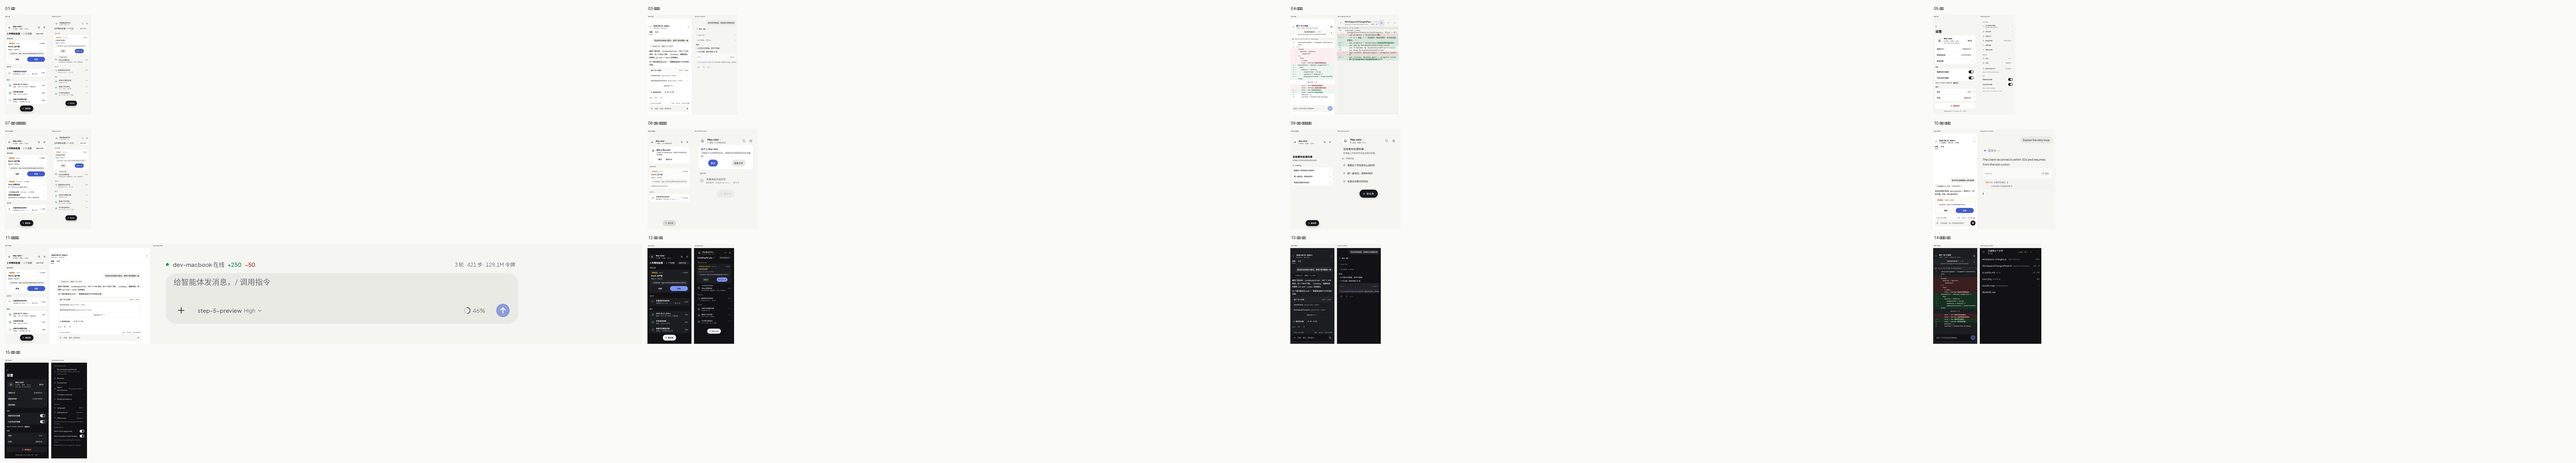
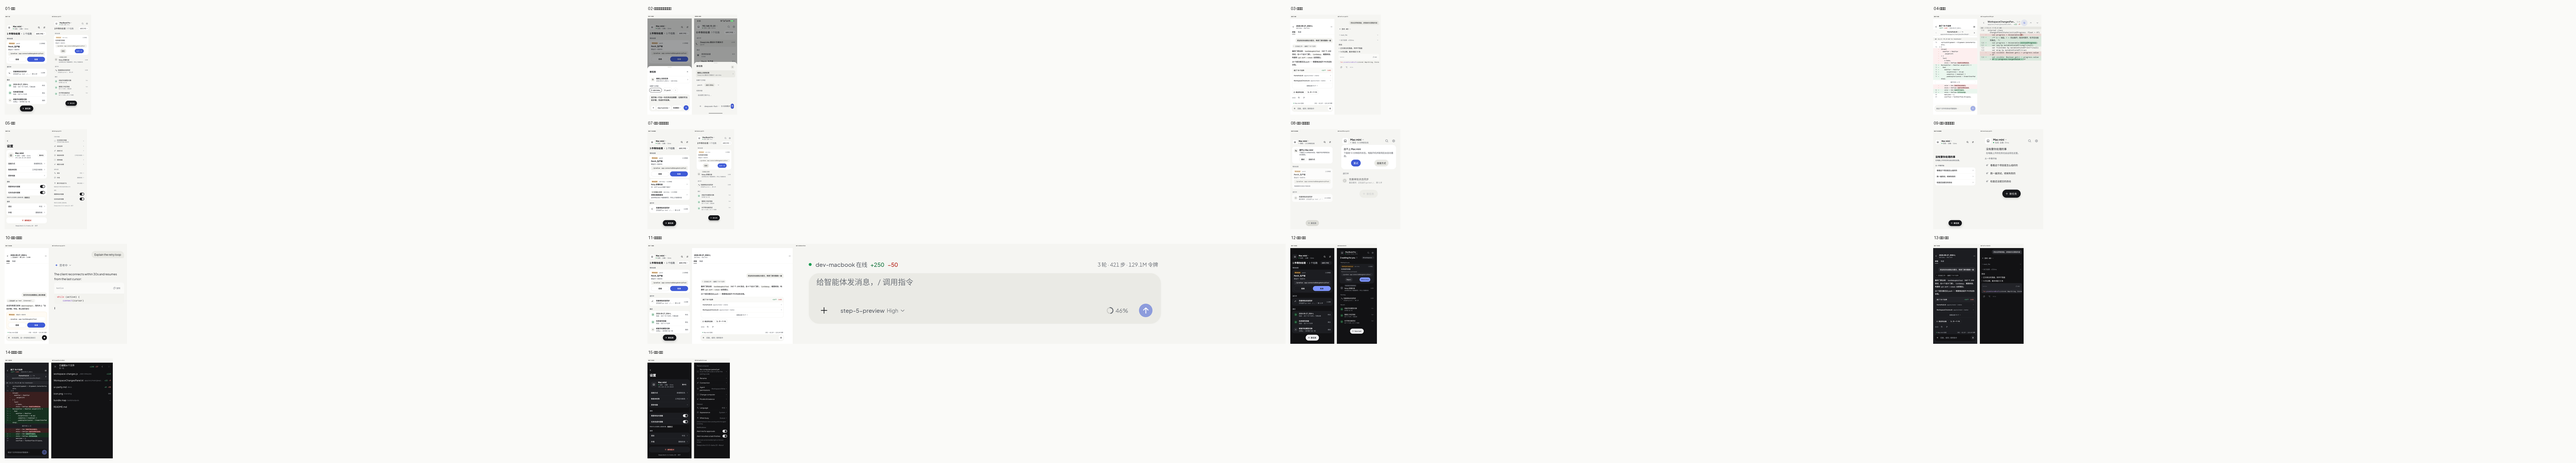
docs: 新任务面板改用手机实拍做对照，总览扩到 14 组（阶段 10 收尾）
02 新任务面板在截图机制里覆盖不到（输入卡是真实 EditText），所以在并排对照里一直缺位。这一轮把
**手机实拍**（修好第二个座之后的版本）与稿 02 拼成对照图 —— 比截图墙更有力，因为它是真机渲染。
总览图随之从 13 组扩到 14 组。

顺带说明：这一轮先探了「用插件测试里的桩 host 让模拟器配对」这条路——test/mobile-models.test.mjs
里的 createServer 只是插件内部的假后端，不足以支撑 App 的配对与完整 API，成本过高，没有继续。
真机三项（04 看改动、06 通知动作、11 平板整页）仍卡在「需要一台与 host 同网且已配对的设备」。

diff --git a/apps/android/docs/redesign-index.md b/apps/android/docs/redesign-index.md
@@ -1,6 +1,6 @@
 # 重设计交付索引（对照设计稿 15 张）
 
-一次翻完：总览图 [`redesign-side-by-side/00-总览.png`](redesign-side-by-side/00-总览.png)（13 组并排缩略）。
+一次翻完：总览图 [`redesign-side-by-side/00-总览.png`](redesign-side-by-side/00-总览.png)（**14 组**并排缩略，其中 02 用的是手机实拍）。
 逐组大图在 `redesign-side-by-side/`，每张左边是设计稿、右边是我们的实现。逐条走查照
 [真机验收对照清单](redesign-acceptance.md) 执行。
 
@@ -9,7 +9,7 @@
 | 稿 | 屏 | 结论 | 验证来源 | 仍存差异（有意/待定） |
 |---|---|---|---|---|
 | 01 | 首页 | ✅ 结构一致：图标块 + 别名 + `● 在线 · 云端 · N ms`、概况行、三段分区、墨色新任务胶囊 | 手机真机（真实会话与进行中任务） | 右上第二个图标：稿是筛选、我们是设置齿轮（功能都在）；稿的「批准」按钮我们沿用既有「允许一次」 |
-| 02 | 新任务面板 | ✅ 「继续上次的任务 / 工作区胶囊 / 任务内容 / + · 模型 · 标准模式 · 发送」 | 手机真机 | 截图机制覆盖不到（输入卡是真实 `EditText`），只能真机；模型座不带推理档（与稿一致） |
+| 02 | 新任务面板 | ✅ 「继续上次的任务 / 工作区胶囊 / 任务内容 / + · 模型 · 标准模式 · 发送」 | **手机实拍**（`02-新任务面板_对照（实拍）.png`）——比截图墙更有力 | 截图机制覆盖不到（输入卡是真实 `EditText`）；模型座不带推理档（与稿一致） |
 | 03 | 对话页 | ✅ 与整页墙同构：气泡 → 思考 → 过程折叠行 → 正文 → 代码块（换行）→ 轮末行 → 改动卡 → 底部区 | 整页墙 + 手机真机 | 「下一步建议胶囊」按方案 D3 v1 不做；输入条我们功能更多（模型/模式/上下文/发送） |
 | 04 | 看改动 | 🔶 实现齐全（文件条 `1/N`、只显新行号、未改动段折叠、悬挂缩进、底部提问条） | 截图墙（浅/深/宽） | **真机未验**：需设备与 host 同网且会话有改动 |
 | 05 | 设置 | ✅ 八个电脑卡项（名称/等宽地址/修改名称/连接方式/智能体权限/更换电脑/模型与余额/在线延迟）+ 通知两开关 + 忙碌时发送 + 页脚 | 手机真机 | 无 |
